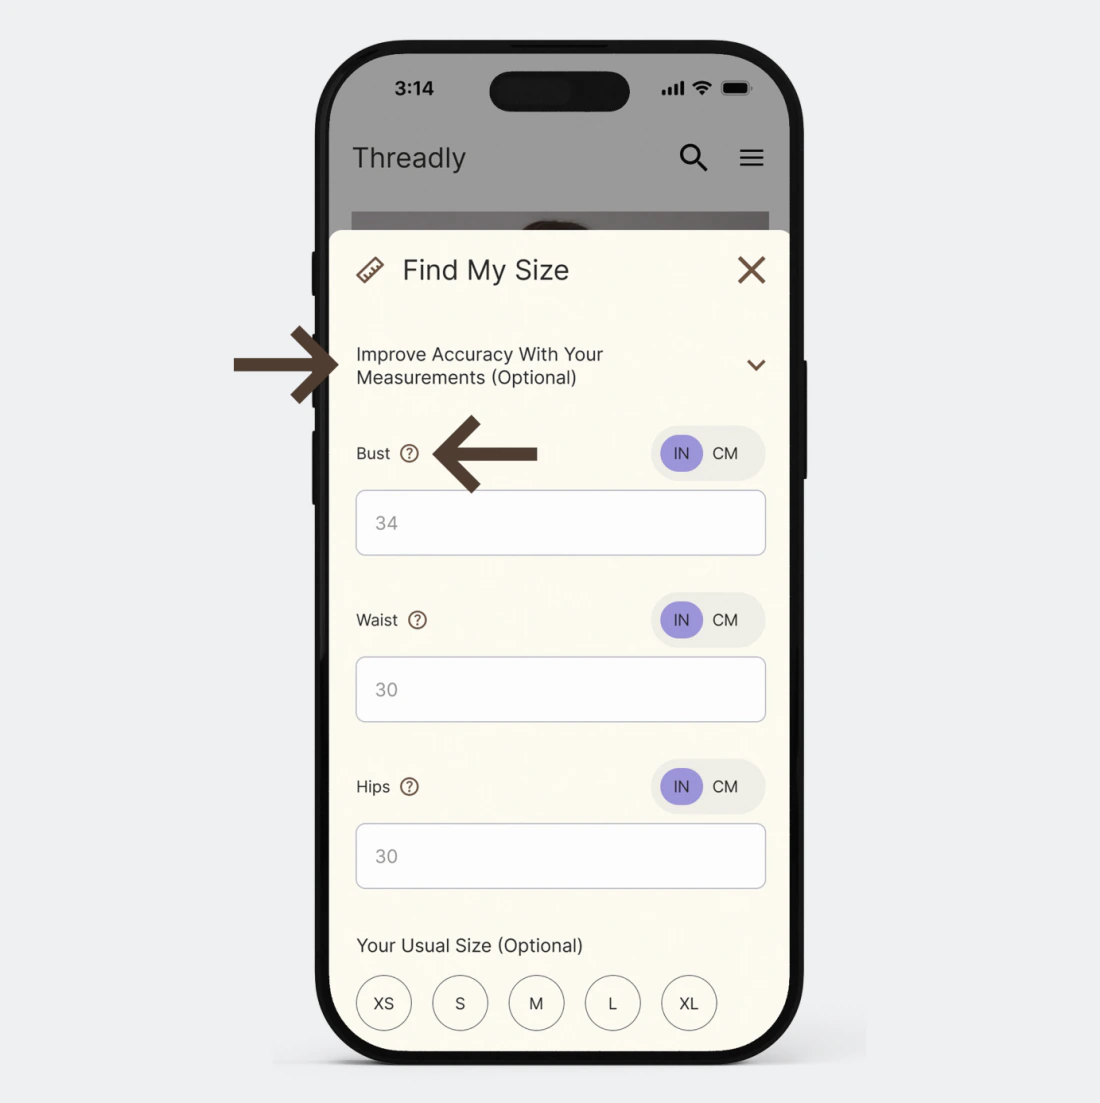
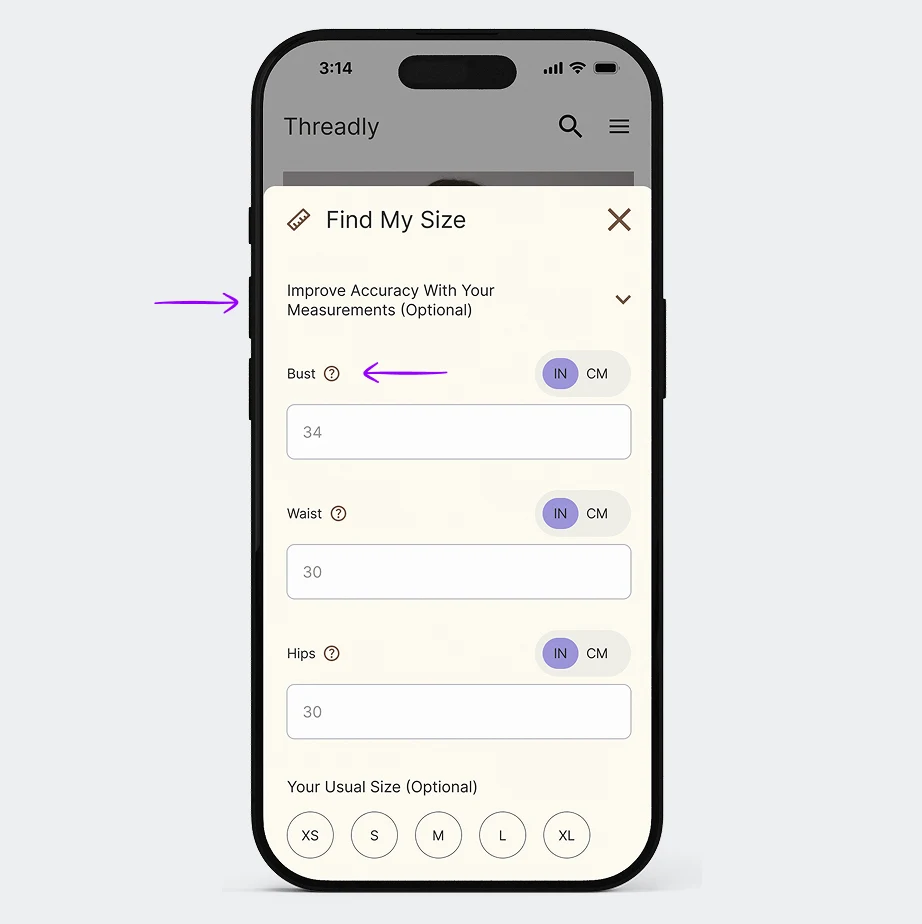
Swap in the annotated usability testing shots
The two shots under the trust question are now the marked-up screens from
the sessions themselves — arrows on the collapsed measurements section and
the undersized help icon, and on the X one user tapped instead of Select
Size S. Each one points at a finding the copy above it already names.

Encoded to webp at q88 to match the rest of the folder, which also takes
them from 436K/456K to about 26K. Intrinsic size drops to 922x924, so the
width/height attributes move with them and the grid still reserves the
right box before the files land.

diff --git a/find-my-size.html b/find-my-size.html
@@ -833,8 +833,8 @@
       </div>
 
       <div class="testing-shots mt-media" style="display:grid;grid-template-columns:1fr 1fr;gap:16px;">
-        <img width="1100" height="1103" loading="lazy" decoding="async" src="images/find-my-size/testing-1.webp" alt="Testing 1" style="width:100%;height:auto;display:block;" />
-        <img width="1100" height="1103" loading="lazy" decoding="async" src="images/find-my-size/testing-2.webp" alt="Testing 2" style="width:100%;height:auto;display:block;" />
+        <img width="922" height="924" loading="lazy" decoding="async" src="images/find-my-size/testing-1.webp" alt="Annotated measurements form" style="width:100%;height:auto;display:block;" />
+        <img width="922" height="924" loading="lazy" decoding="async" src="images/find-my-size/testing-2.webp" alt="Annotated recommendation screen" style="width:100%;height:auto;display:block;" />
       </div>
 
       <div class="recommendations">
